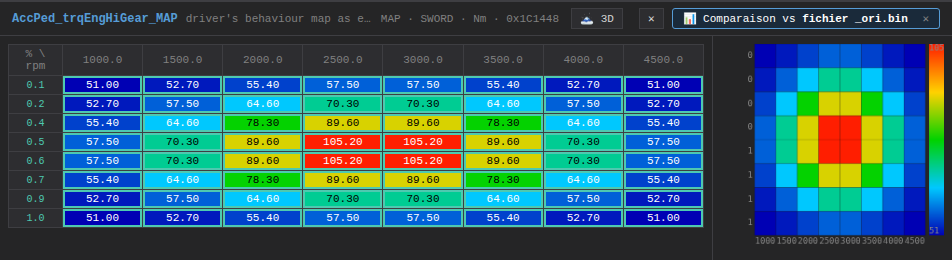
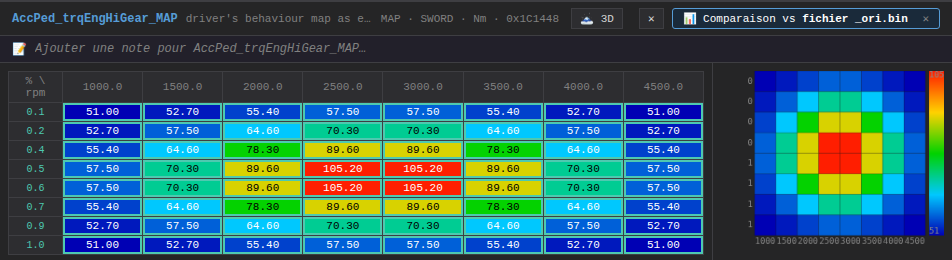
feat: per-map persistent notes
Each map shown in the editor gets a single-line note input stored in
the project's meta.mapNotes[mapName]. Empty text deletes the entry.
Auto-saves on blur/Enter, survives map switches and page reloads.

Endpoints:
- GET  /api/projects/:id/notes        → { [mapName]: text }
- PATCH /api/projects/:id/notes/:name → body { text }

diff --git a/tests/map-notes.test.js b/tests/map-notes.test.js
@@ -1,0 +1,122 @@
+// Verifies per-map notes persist across map switches and page reloads.
+
+const { chromium } = require('playwright');
+const fs = require('fs');
+const path = require('path');
+
+const URL = process.env.APP_URL || 'http://localhost:3001';
+const OUT = path.join(__dirname, 'screenshots');
+fs.mkdirSync(OUT, { recursive: true });
+
+const MAP_A = 'AccPed_trqEngHiGear_MAP';
+const MAP_B = 'AccPed_trqEngLoGear_MAP';
+const ADDR_A = 1840200; // 0x1C1448
+
+async function openMap(page, name) {
+  const search = await page.$('.sidebar input[type="search"]');
+  await search.fill('');
+  await page.waitForTimeout(80);
+  await search.fill(name);
+  await page.waitForSelector('.param-item', { timeout: 3000 });
+  await page.waitForTimeout(80);
+  await page.click('.param-item');
+  await page.waitForSelector('#map-note-input', { timeout: 3000 });
+  await page.waitForTimeout(200);
+}
+
+(async () => {
+  const browser = await chromium.launch();
+  const ctx = await browser.newContext({ viewport: { width: 1400, height: 800 } });
+  const page = await ctx.newPage();
+  const msgs = [];
+  page.on('console', m => msgs.push(`[${m.type()}] ${m.text()}`));
+  page.on('pageerror', e => msgs.push(`[pageerror] ${e.message}`));
+
+  let id;
+  try {
+    const proj = await page.request.post(URL + '/api/projects', { data: { name: 'pw-notes', ecu: 'edc16c34' } });
+    id = (await proj.json()).id;
+
+    // Minimal ROM with a MAP at ADDR_A so the editor opens. MAP_B will fall back
+    // to whatever layout lives in the ROM; we just care about the note input.
+    const rom = Buffer.alloc(2 * 1024 * 1024, 0xAA);
+    rom.writeInt16BE(4, ADDR_A);
+    rom.writeInt16BE(4, ADDR_A + 2);
+    for (let i = 0; i < 4; i++) rom.writeInt16BE(1000 + i * 500, ADDR_A + 4 + i * 2);
+    for (let i = 0; i < 4; i++) rom.writeInt16BE(10 + i * 10, ADDR_A + 4 + 8 + i * 2);
+    const dataOff = ADDR_A + 4 + 4 * 2 + 4 * 2;
+    for (let i = 0; i < 16; i++) rom.writeInt16BE(500, dataOff + i * 2);
+
+    await page.request.post(URL + `/api/projects/${id}/rom`, {
+      multipart: { rom: { name: 'rom.bin', mimeType: 'application/octet-stream', buffer: rom } }
+    });
+
+    await page.goto(URL + '/#/project/' + id);
+    await page.waitForSelector('#hex-wrap canvas', { timeout: 5000 });
+    await page.waitForTimeout(400);
+
+    // Open MAP A, type a note, tab away so it saves.
+    await openMap(page, MAP_A);
+    const note = "Augmenté de 15% pour stage 1 — confirmé sur banc 2026-04";
+    await page.fill('#map-note-input', note);
+    // change fires on blur. Press Enter to trigger blur explicitly.
+    await page.press('#map-note-input', 'Enter');
+    await page.waitForTimeout(400);
+    const status = await page.$eval('#map-note-status', el => el.textContent);
+    console.log('save status:', status);
+    if (!/enregistré|✓/.test(status)) throw new Error(`save status missing: "${status}"`);
+
+    // Server-side check: the note was persisted
+    const notesResp = await page.request.get(URL + `/api/projects/${id}/notes`);
+    const notes = await notesResp.json();
+    console.log('server notes:', notes);
+    if (notes[MAP_A] !== note) throw new Error(`server has wrong note: "${notes[MAP_A]}"`);
+
+    // Switch to MAP B, the note input should be empty
+    await openMap(page, MAP_B);
+    const noteB = await page.$eval('#map-note-input', el => el.value);
+    console.log('MAP_B note on open:', JSON.stringify(noteB));
+    if (noteB !== '') throw new Error(`MAP_B should have no note, got "${noteB}"`);
+
+    // Save a note on MAP B, then switch back to MAP A → note should still be the original
+    await page.fill('#map-note-input', 'test B');
+    await page.press('#map-note-input', 'Enter');
+    await page.waitForTimeout(400);
+    await openMap(page, MAP_A);
+    const noteAReload = await page.$eval('#map-note-input', el => el.value);
+    console.log('MAP_A note after switch back:', JSON.stringify(noteAReload));
+    if (noteAReload !== note) throw new Error(`MAP_A note lost: "${noteAReload}"`);
+
+    // Reload the whole page → notes still there (proves persistence)
+    await page.goto(URL + '/#/project/' + id);
+    await page.waitForSelector('#hex-wrap canvas', { timeout: 5000 });
+    await page.waitForTimeout(400);
+    await openMap(page, MAP_A);
+    const noteAPostReload = await page.$eval('#map-note-input', el => el.value);
+    console.log('MAP_A note after page reload:', JSON.stringify(noteAPostReload));
+    if (noteAPostReload !== note) throw new Error(`note did not survive reload: "${noteAPostReload}"`);
+
+    // Clear note (empty string deletes)
+    await page.fill('#map-note-input', '');
+    await page.press('#map-note-input', 'Enter');
+    await page.waitForTimeout(300);
+    const cleared = await (await page.request.get(URL + `/api/projects/${id}/notes`)).json();
+    if (cleared[MAP_A] !== undefined) throw new Error(`empty note should delete, got "${cleared[MAP_A]}"`);
+    console.log('empty note deletes ✓');
+
+    await page.screenshot({ path: path.join(OUT, 'map-notes.png'), fullPage: false });
+    console.log('  📸 map-notes.png');
+
+    const errors = msgs.filter(m => m.includes('[error]') || m.includes('[pageerror]'));
+    if (errors.length) { errors.forEach(e => console.log(' ', e)); throw new Error(`${errors.length} console error(s)`); }
+    console.log('\n✅ ALL PASSED');
+  } catch (e) {
+    await page.screenshot({ path: path.join(OUT, 'FAIL-notes.png') });
+    console.log('\n❌', e.message);
+    msgs.slice(-15).forEach(m => console.log(' ', m));
+    process.exitCode = 1;
+  } finally {
+    if (id) try { await page.request.delete(URL + `/api/projects/${id}`); } catch {}
+    await browser.close();
+  }
+})();

diff --git a/public/js/components/map-editor.js b/public/js/components/map-editor.js
@@ -75,9 +75,11 @@ function textColorForBg(t) {
 }
 
 export class MapEditor {
-  constructor(el, { onBytesChange }) {
+  constructor(el, { onBytesChange, getNote, setNote }) {
     this.el = el;
     this.onBytesChange = onBytesChange;
+    this.getNote = getNote; // (mapName) => string|undefined
+    this.setNote = setNote; // (mapName, text) => Promise
     this.param = null;
     this.romData = null;
     this._chart = null;
@@ -249,6 +251,13 @@ export class MapEditor {
         <button class="btn btn-sm" id="map-close" style="margin-left:8px">✕</button>
       </div>
 
+      ${this.getNote ? `
+      <div class="map-note-bar">
+        <span class="map-note-icon" title="Note persistée pour cette carte">📝</span>
+        <input type="text" class="map-note-input" id="map-note-input" placeholder="Ajouter une note pour ${p.name}…" value="${(this.getNote(p.name) || '').replace(/"/g, '&quot;')}">
+        <span class="map-note-status" id="map-note-status"></span>
+      </div>` : ''}
+
       <div id="map-sel-bar" class="map-sel-bar hidden">
         <span id="map-sel-count" style="font-size:11px;color:var(--text-dim)">0 cellule(s) sélectionnée(s)</span>
         <button class="btn btn-sm map-adj-btn" data-op="pct" data-val="5">+5%</button>
@@ -277,6 +286,27 @@ export class MapEditor {
     this.el.classList.toggle('view-3d', !!(this._view3D && p.type === 'MAP'));
 
     this.el.querySelector('#map-close').addEventListener('click', () => this.hide());
+    const noteInput = this.el.querySelector('#map-note-input');
+    if (noteInput && this.setNote) {
+      const statusEl = this.el.querySelector('#map-note-status');
+      const flash = (msg) => {
+        if (!statusEl) return;
+        statusEl.textContent = msg;
+        setTimeout(() => { if (statusEl.textContent === msg) statusEl.textContent = ''; }, 1500);
+      };
+      noteInput.addEventListener('change', async () => {
+        try {
+          await this.setNote(p.name, noteInput.value);
+          flash('✓ enregistré');
+        } catch (e) {
+          flash('❌ ' + (e.message || 'erreur'));
+        }
+      });
+      noteInput.addEventListener('keydown', e => {
+        if (e.key === 'Enter') { noteInput.blur(); }
+      });
+    }
+
     this.el.querySelector('#map-toggle-3d')?.addEventListener('click', () => {
       this._view3D = !this._view3D;
       this._render();

diff --git a/public/js/views/project.js b/public/js/views/project.js
@@ -94,6 +94,9 @@ export async function renderProject(container, { projectId, onBack }) {
   // In-memory clipboard for map-to-map copy/paste (survives map switches).
   let mapClipboard = null;
 
+  // Per-map notes cache (populated on ROM load, synced to server on change).
+  let mapNotes = {};
+
   function recordEdit(offset, newBytes, prevBytes) {
     if (!editCollector) {
       editCollector = [];
@@ -196,6 +199,10 @@ export async function renderProject(container, { projectId, onBack }) {
       setStatus(`Modifié: 0x${offset.toString(16).toUpperCase()} = 0x${value.toString(16).toUpperCase().padStart(2, '0')} | ${hexEditor.modified.size} byte(s) non sauvegardé(s)`);
     };
 
+    // Load per-map notes once; the map editor reads/writes through the cached
+    // object and syncs to the server on change.
+    mapNotes = await api.getMapNotes(projectId).catch(() => ({}));
+
     // Initialize map editor
     const mapPane = document.getElementById('map-editor-pane');
     mapEditor = new MapEditor(mapPane, {
@@ -204,6 +211,13 @@ export async function renderProject(container, { projectId, onBack }) {
         hexEditor.patchBytes(offset, bytes);
         recordEdit(offset, bytes, prevBytes || []);
         setStatus(`Carte modifiée à 0x${offset.toString(16).toUpperCase()} | ${hexEditor.modified.size} byte(s) non sauvegardé(s)`);
+      },
+      getNote: (mapName) => mapNotes[mapName] || '',
+      setNote: async (mapName, text) => {
+        const trimmed = (text || '').trim();
+        if (trimmed) mapNotes[mapName] = text;
+        else delete mapNotes[mapName];
+        await api.setMapNote(projectId, mapName, text);
       }
     });
 

diff --git a/server.js b/server.js
@@ -289,6 +289,33 @@ app.delete('/api/projects/:id/compare-file', (req, res) => {
   res.json({ ok: true });
 });
 
+// ── Per-map notes (stored in meta.mapNotes) ───────────────────────────────────
+
+app.get('/api/projects/:id/notes', async (req, res) => {
+  try {
+    const proj = await pm.get(req.params.id);
+    if (!proj) return res.status(404).json({ error: 'Project not found' });
+    res.json(proj.mapNotes || {});
+  } catch (e) {
+    res.status(500).json({ error: e.message });
+  }
+});
+
+app.patch('/api/projects/:id/notes/:mapName', async (req, res) => {
+  try {
+    const proj = await pm.get(req.params.id);
+    if (!proj) return res.status(404).json({ error: 'Project not found' });
+    const text = (req.body?.text ?? '').toString();
+    const notes = { ...(proj.mapNotes || {}) };
+    if (text.trim() === '') delete notes[req.params.mapName];
+    else notes[req.params.mapName] = text;
+    await pm.update(req.params.id, { mapNotes: notes });
+    res.json({ ok: true, notes });
+  } catch (e) {
+    res.status(500).json({ error: e.message });
+  }
+});
+
 app.get('/api/projects/:id/git/branches', async (req, res) => {
   try {
     const gm = new GitManager(pm.getProjectDir(req.params.id));

diff --git a/public/css/app.css b/public/css/app.css
@@ -277,6 +277,30 @@ body {
 }
 .map-chart-wrap canvas { width: 100% !important; height: 100% !important; }
 
+/* Per-map persistent notes — single-line input under the toolbar */
+.map-note-bar {
+  display: flex;
+  align-items: center;
+  gap: 8px;
+  padding: 4px 12px;
+  border-bottom: 1px solid var(--border);
+  background: #22202a;
+  flex-shrink: 0;
+}
+.map-note-icon { font-size: 12px; }
+.map-note-input {
+  flex: 1;
+  background: transparent;
+  border: none;
+  color: var(--text);
+  font-family: inherit;
+  font-size: 12px;
+  padding: 2px 0;
+  outline: none;
+}
+.map-note-input::placeholder { color: var(--text-dim); font-style: italic; }
+.map-note-status { font-size: 10px; color: var(--accent2); min-width: 80px; text-align: right; }
+
 /* Slice viewer — modal with a Chart.js line chart of a row or column */
 .map-slice-modal {
   min-width: 640px;

diff --git a/public/js/api.js b/public/js/api.js
@@ -51,6 +51,10 @@ export const api = {
   getCompareRom: (id) => req('GET', `/api/projects/${id}/compare-file`, undefined, true),
   clearCompareFile: (id) => req('DELETE', `/api/projects/${id}/compare-file`),
 
+  // Per-map notes
+  getMapNotes: (id) => req('GET', `/api/projects/${id}/notes`),
+  setMapNote: (id, mapName, text) => req('PATCH', `/api/projects/${id}/notes/${encodeURIComponent(mapName)}`, { text }),
+
   // WinOLS
   importWinols: (id, file) => {
     const fd = new FormData();

diff --git a/CLAUDE.md b/CLAUDE.md
@@ -80,6 +80,8 @@ docs/
 | POST | /api/projects/:id/compare-file | Upload d'un .bin de référence → liste des cartes qui diffèrent (buffer gardé en RAM) |
 | GET | /api/projects/:id/compare-file | Récupère le .bin de compare stocké (pour `mapEditor.showCompare`) |
 | DELETE | /api/projects/:id/compare-file | Libère le buffer de compare en RAM |
+| GET | /api/projects/:id/notes | Toutes les notes map → `{ [mapName]: text }` |
+| PATCH | /api/projects/:id/notes/:mapName | Enregistre/efface la note d'une carte (body `{ text }`, vide = delete) |
 | POST | /api/projects/:id/git/restore/:hash | Restaurer version |
 | GET/POST | /api/projects/:id/git/branches | Lister / créer |
 | PUT | /api/projects/:id/git/branches/:name | Switch (auto-commit WIP si dirty) |

diff --git a/README.md b/README.md
@@ -108,6 +108,13 @@ Le cœur du projet. Chaque projet est un repo git : historique, branches, restau
 
   ![slice viewer](docs/screenshots/slice-viewer.png)
 
+- **Notes par carte** — une note libre est associée à chaque carte affichée
+  (input sous la toolbar, input vide supprime la note). Sauvegarde serveur
+  automatique au blur/Enter, persiste entre sessions et rechargements.
+  Pratique pour garder trace des essais : *"+15% stage 1, OK banc 2026-04"*.
+
+  ![notes par carte](docs/screenshots/map-notes.png)
+
 ---
 
 ## Installation
